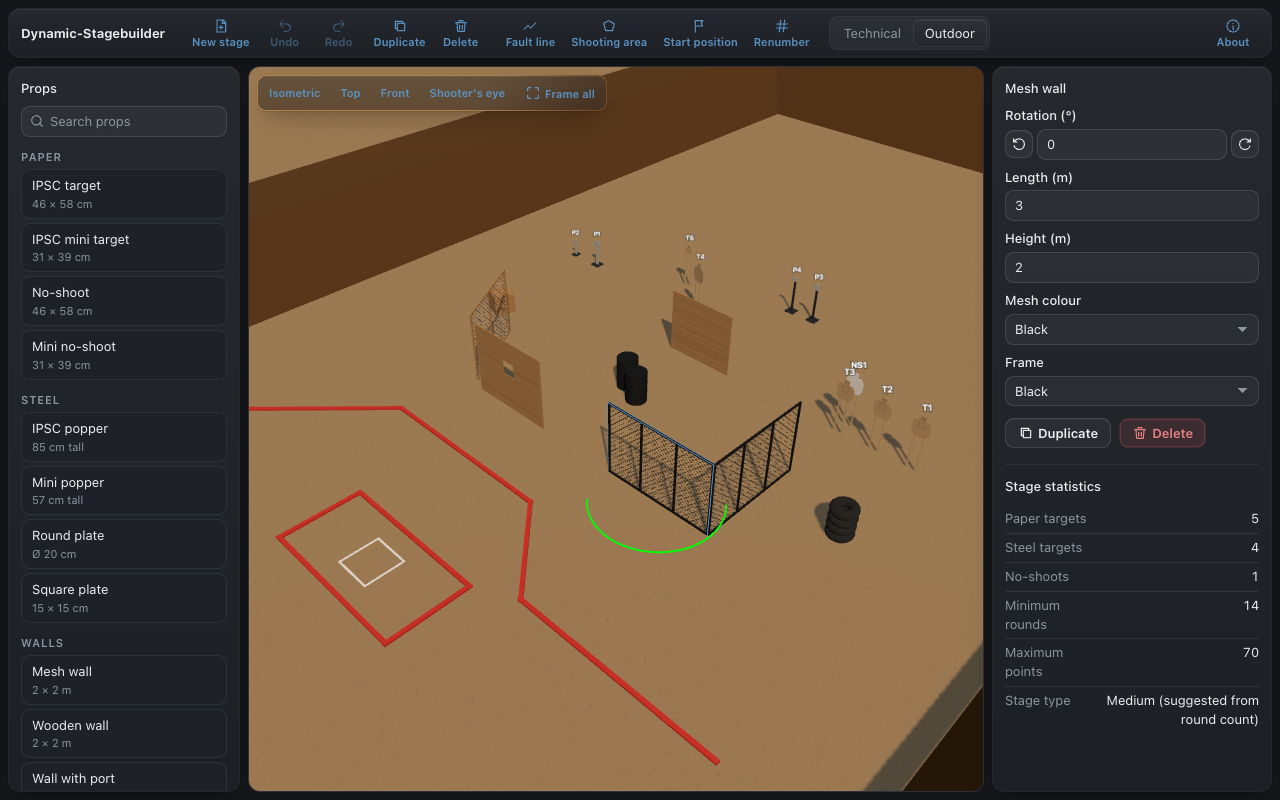
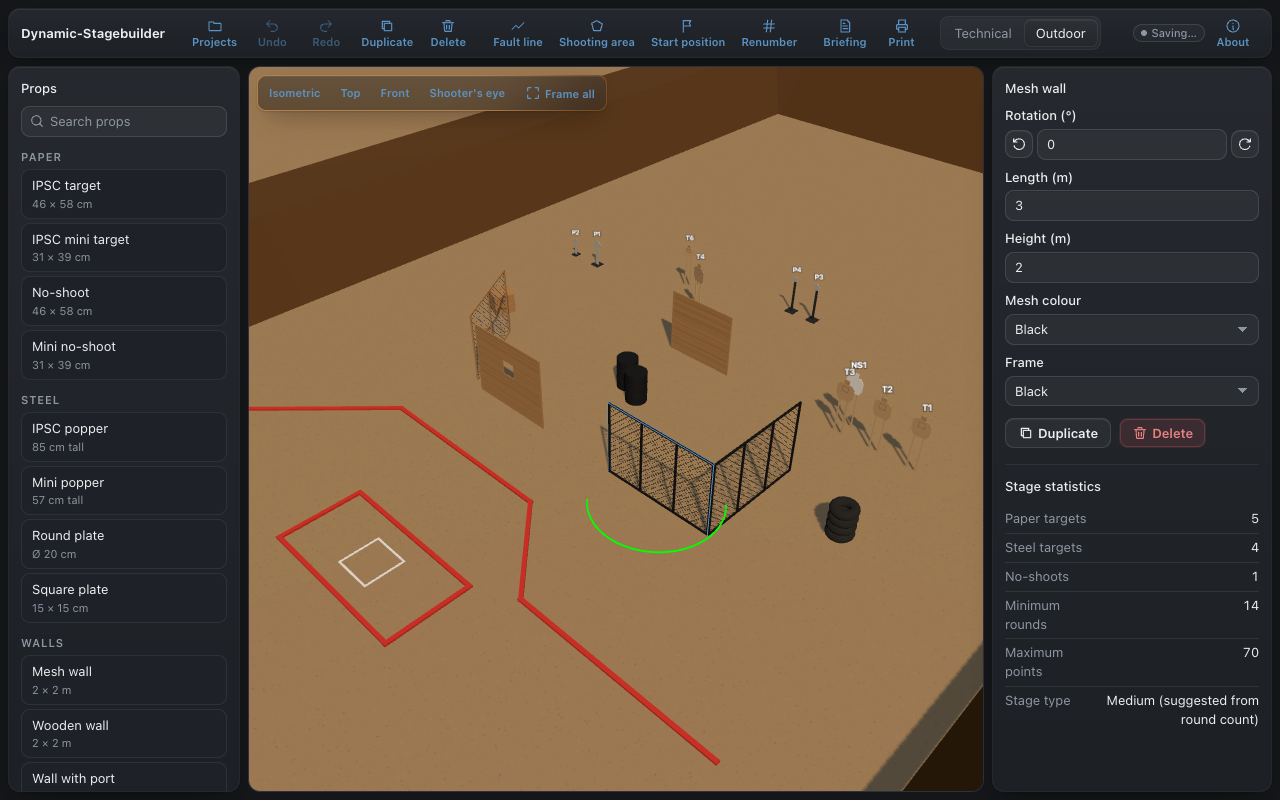
docs: describe briefing, printing, projects and installing

Changed region(s): [[0.1562, 0.0312, 0.7812, 0.0625], [0.9062, 0.0312, 0.9375, 0.0625], [0.8125, 0.0312, 0.8438, 0.0625]]

diff --git a/README.md b/README.md
@@ -4,42 +4,39 @@ A browser-based 3D stage builder for IPSC practical shooting. Lay out a stage at
 it from any angle, and print a Written Stage Briefing with a stage map for range officers and
 competitors.
 
-**Version:** 0.1.0 · **Status:** early development. The 3D editor works; the printable briefing and
-saved projects come next (see the [v1 design](docs/superpowers/specs/2026-11-18-stage-builder-v1-design.md)).
-Started 2026-11-18.
+**Version:** 0.1.0 · **Status:** v1 feature-complete, not yet released (see the
+[v1 design](docs/superpowers/specs/2026-11-18-stage-builder-v1-design.md)). Started 2026-11-18.
 
 ## Who it's for
 
 Professional stage builders and enthusiast IPSC shooters who design stages for club matches and
 training, and want a clear briefing sheet without drawing the map by hand.
 
-## What v1 does
+## What it does
 
-Built so far (✓) and still to come in v1 (later):
-
-- ✓ **Shooting bay** at real scale: width × depth in metres (default 20 × 30 m), 1 m grid.
-- ✓ **Prop library**, every prop drawn in 3D at real dimensions:
-  - paper: IPSC target, mini target, no-shoot, mini no-shoot (on stick stands, adjustable height)
+- **Shooting bay** at real scale: width × depth in metres (default 20 × 30 m), 1 m grid.
+- **Prop library**, every prop drawn in 3D at real dimensions:
+  - paper: IPSC target, mini target, no-shoot, mini no-shoot (on sticks, adjustable height)
   - steel: IPSC popper, mini popper, round plate, square plate
   - walls: mesh wall (black or blue mesh, black or wood frame), wooden wall, wall with a real port
   - obstacles: barrel, tyre, tyre stack, wooden crate
   - fault lines, shooting areas and the start position
-- ✓ **Editing by eye:** click or drag props in, drag them on the ground, rotate them, all with grid
-  and angle snapping; multi-select, duplicate, delete, undo and redo.
-- ✓ **Automatic target numbers** (T1…, P1… for steel, NS1… for no-shoots), with hand-set labels kept.
-- ✓ **Live statistics:** targets, no-shoots, minimum rounds, maximum points, suggested stage type.
-- (later) **Written Stage Briefing** editor: match, stage name and number, designer, stage type, scoring,
-  targets, minimum rounds, maximum points, start signal, start position, gun condition, procedure,
-  stop time and notes. Counted fields come from the stage itself.
-- (later) **Printable brief** (A4, two pages): briefing and top-down map with a scale bar on page 1, a 3D
-  view on page 2. Save it as a PDF from the print dialog.
-- ✓ **Two surroundings,** Technical (grey floor, grid) and Outdoor (dirt, sunlight). Switching never
+- **Editing by eye:** tap or drag props in, drag them on the ground, rotate them, all with grid and
+  angle snapping; multi-select, duplicate, delete, undo and redo.
+- **Automatic target numbers** (T1…, P1… for steel, NS1… for no-shoots), with hand-set labels kept.
+- **Live statistics:** targets, no-shoots, minimum rounds, maximum points, suggested stage type.
+- **Written Stage Briefing** editor: match, stage name and number, designer, stage type, scoring,
+  start signal, start position, gun condition, procedure, stop time and notes. Targets, rounds and
+  points are counted from the stage.
+- **Printable brief** (A4): briefing and a top-down map with a scale bar on page 1, a 3D view on
+  page 2. Save it as a PDF from the print dialog.
+- **Two surroundings,** Technical (grey floor, grid) and Outdoor (dirt, sunlight). Switching never
   moves anything on the stage.
-- ✓ **Cameras:** orbit, pan, zoom, Top, Isometric, Front and a shooter's-eye view from the start position.
-- (later) **Projects** saved in the browser automatically, plus JSON export and import.
-- (later) **Works offline** and can be installed as an app (PWA).
+- **Cameras:** orbit, pan, zoom, Top, Isometric, Front and a shooter's-eye view from the start position.
+- **Projects** saved in the browser automatically, with JSON export and import.
+- **Works offline** and can be installed as an app (PWA).
 
-Later versions (not in v1): matches with several stages, build sheet with coordinates, sight-line
+Not in v1 (ideas for later): matches with several stages, a build sheet with coordinates, sight-line
 analysis, measuring tools, moving targets, more surroundings and props, model import, version history.
 
 ## Devices
@@ -55,6 +52,8 @@ not supported: below 768 px wide the app asks you to use a larger screen. Englis
   fault lines, shooting areas and the start position; drag, rotate, duplicate, delete, undo/redo.
 - Automatic target numbers (T1, P1, NS1) and live round count, points and suggested stage type.
 - Technical and Outdoor surroundings, camera presets including the shooter's eye.
+- Written Stage Briefing editor and a two-page A4 brief with a top-down map (Save as PDF).
+- Projects saved in the browser with autosave, JSON export and import; works offline as an app.
 
 ### 0.1.0
 
@@ -64,11 +63,19 @@ not supported: below 768 px wide the app asks you to use a larger screen. Englis
 
 <table>
   <tr>
-    <td><img src="docs/screenshots/editor-technical.png" alt="The editor with the Technical surroundings" width="400"><br>The editor: prop library, 3D stage in the Technical surroundings, stage statistics</td>
+    <td><img src="docs/screenshots/editor-technical.png" alt="The editor with the Technical surroundings" width="400"><br>The editor: prop library, the stage in the Technical surroundings, stage statistics</td>
     <td><img src="docs/screenshots/editor-outdoor.png" alt="The same stage outdoors with a wall selected" width="400"><br>The same stage outdoors, with a mesh wall selected and its rotate ring</td>
   </tr>
   <tr>
     <td><img src="docs/screenshots/shooters-eye.png" alt="Shooter's eye view from the start position" width="400"><br>Shooter's eye: the view from the start position at 1.6 m</td>
+    <td><img src="docs/screenshots/briefing.png" alt="The Written Stage Briefing dialog" width="400"><br>The Written Stage Briefing; rounds and points are counted from the stage</td>
+  </tr>
+  <tr>
+    <td><img src="docs/screenshots/print-page1.png" alt="Printed brief, page 1" width="400"><br>Printed brief, page 1: header, top-down map with scale bar, briefing</td>
+    <td><img src="docs/screenshots/print-page2.png" alt="Printed brief, page 2" width="400"><br>Printed brief, page 2: the 3D view</td>
+  </tr>
+  <tr>
+    <td><img src="docs/screenshots/projects.png" alt="The Projects dialog" width="400"><br>Projects saved in this browser, with export hints</td>
     <td><img src="docs/screenshots/ipad-landscape.png" alt="The editor at iPad landscape width" width="400"><br>On an iPad (1024 px): the inspector moves under the 3D view</td>
   </tr>
 </table>
@@ -81,10 +88,16 @@ No build step and no server-side code. Serve the folder and open it in a browser
 python3 -m http.server 8002      # then open http://localhost:8002/ (or: claude-update)
 ```
 
+Any static web server works (the app only loads its own files). Offline support and installing
+need `http://localhost` or HTTPS; opened as a `file://` page the editor works but nothing is cached.
+
+**Install as an app:** in Safari on an iPad or Mac, Share → Add to Home Screen (or Add to Dock); in
+Chrome or Edge, the install button in the address bar. Installed, it works without a connection, and
+Safari keeps its saved stages (a site that isn't installed can lose them after 7 days unvisited).
+
 ## Configuration
 
-Stage settings are in the inspector when nothing is selected. Saving them comes with saved projects
-(later in v1); until then a reload starts again from the example stage.
+Stage settings are in the inspector when nothing is selected. They are saved with the stage.
 
 | Setting | What it does | Default |
 |---|---|---|
@@ -123,8 +136,23 @@ it in the inspector; Renumber keeps hand-set labels and warns about duplicates.
 scroll or pinch to zoom. The buttons over the view jump to Isometric, Top, Front, Shooter's eye or
 frame everything. Switch *Technical*/*Outdoor* at any time; nothing on the stage moves.
 
-**Undo anything** with Undo/Redo or ⌘Z / ⇧⌘Z (Ctrl on Windows). *New stage* starts empty and can be
-undone too.
+**Undo anything** with Undo/Redo or ⌘Z / ⇧⌘Z (Ctrl on Windows).
+
+**Write the briefing.** *Briefing* opens the Written Stage Briefing. Fill in the match, stage
+number, designer, start signal, start position, gun condition, procedure and notes. Targets,
+minimum rounds and maximum points are counted from the stage and can't be typed over. Stage type
+is suggested from the round count; pick Short, Medium or Long to set it yourself.
+
+**Print the brief or save it as a PDF.** *Print* makes a two-page A4 brief: the briefing and a
+top-down map with a scale bar on page 1 (down range at the top), a 3D view on page 2. A long
+procedure carries on to the next page instead of being cut. In the print dialog choose
+*Save as PDF*; on an iPad, tap Share → Print, then pinch out on the preview and Share → Save to Files.
+
+**Projects, export and import.** Every change is saved in this browser automatically (the chip in
+the toolbar says *Saved*). *Projects* lists your stages: open, duplicate or delete them, start a
+*New stage*, *Export this stage* as a `.json` file, or *Import file…* to add a stage from a file.
+An import always becomes a new project, so it never overwrites one. A project with changes that
+aren't in an exported file shows a hint, so you know when to export a backup.
 
 ### Keyboard shortcuts
 

diff --git a/CLAUDE.md b/CLAUDE.md
@@ -39,8 +39,10 @@ npm run lint        # ESLint, including the unsafe-DOM rule
   node_modules, pinned to the vendored version)
 - `docs/superpowers/`: the v1 design and the implementation plans
 
-Still to come (Plans 2 and 3): `js/storage/` (IndexedDB, JSON files), `print.html` + `css/print.css`,
-`sw.js` + `manifest.webmanifest`.
+- `js/storage/`: IndexedDB store (db), project records (projects), stage files (files)
+- `css/print.css` + `js/ui/print.js` + `js/model/map.js`: the A4 brief (a hidden `#print` section)
+- `sw.js` + `manifest.webmanifest` + `icons/`: the PWA. **Add every new app file to `FILES` in
+  `sw.js`** (tests/pwa.test.mjs fails otherwise) and update `VERSION` there when bumping the version.
 
 ## Architecture rules
 
@@ -58,6 +60,7 @@ Still to come (Plans 2 and 3): `js/storage/` (IndexedDB, JSON files), `print.htm
 - Imported JSON is validated by `model/schema.js` before use and never overwrites an existing project.
 - Three.js is loaded through an inline import map allowed by its `sha256` hash in the CSP. If you
   change the import map, update the hash.
+- The CSP requires Trusted Types for scripts: script URLs (the service worker) go through a policy.
 
 ## Design
 

diff --git a/CHANGELOG.md b/CHANGELOG.md
@@ -14,6 +14,11 @@ All notable changes to Dynamic-Stagebuilder are listed here, newest first.
 - Technical and Outdoor surroundings that never change the stage; camera presets including the
   shooter's eye; About dialog with the version and the rulebook edition.
 - Computers and iPads; phones get a "use a larger screen" message.
+- Written Stage Briefing editor; the counted fields (targets, rounds, points) come from the stage.
+- Print: a two-page A4 brief with a top-down map, scale bar and 3D view (Save as PDF).
+- Projects saved in the browser with autosave, a Projects dialog (open, duplicate, delete, new),
+  JSON export and safe import (validated, always a new project), and a "not exported" hint.
+- Installable PWA that works offline (network first, the app's own files cached per version).
 
 - v1 design agreed (docs/superpowers/specs/2026-11-18-stage-builder-v1-design.md); README and CLAUDE.md describe the plan.
 
